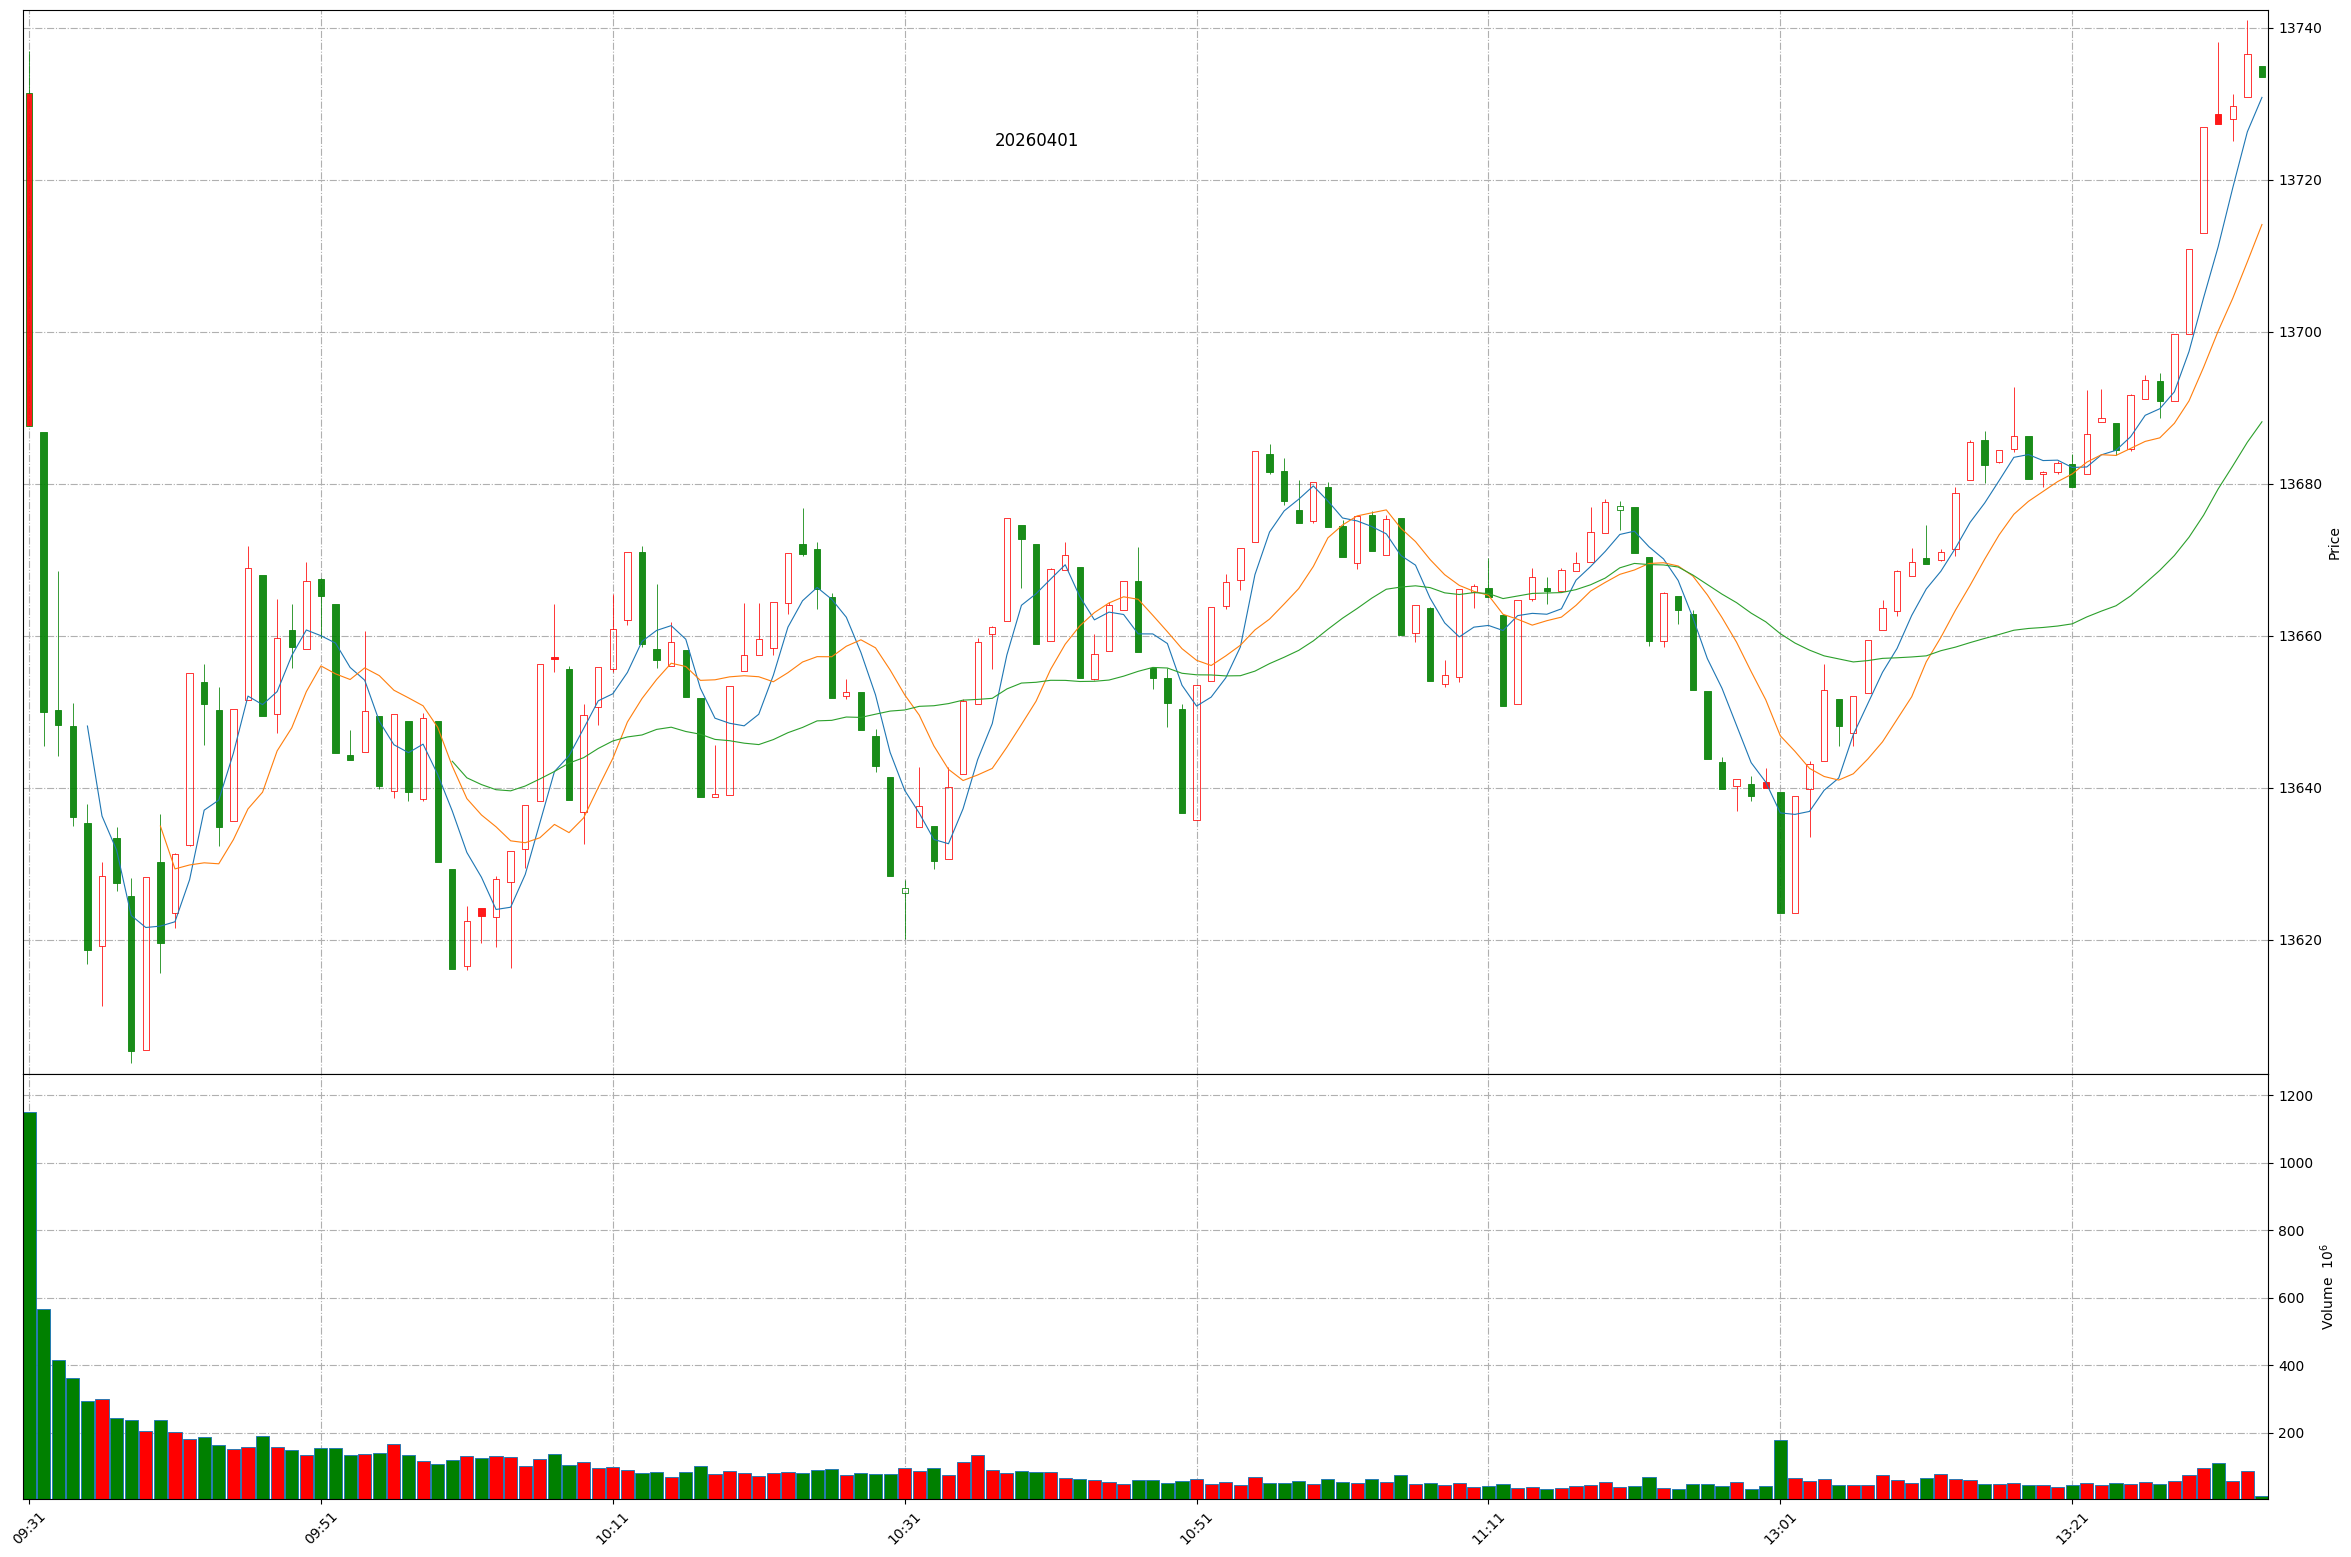
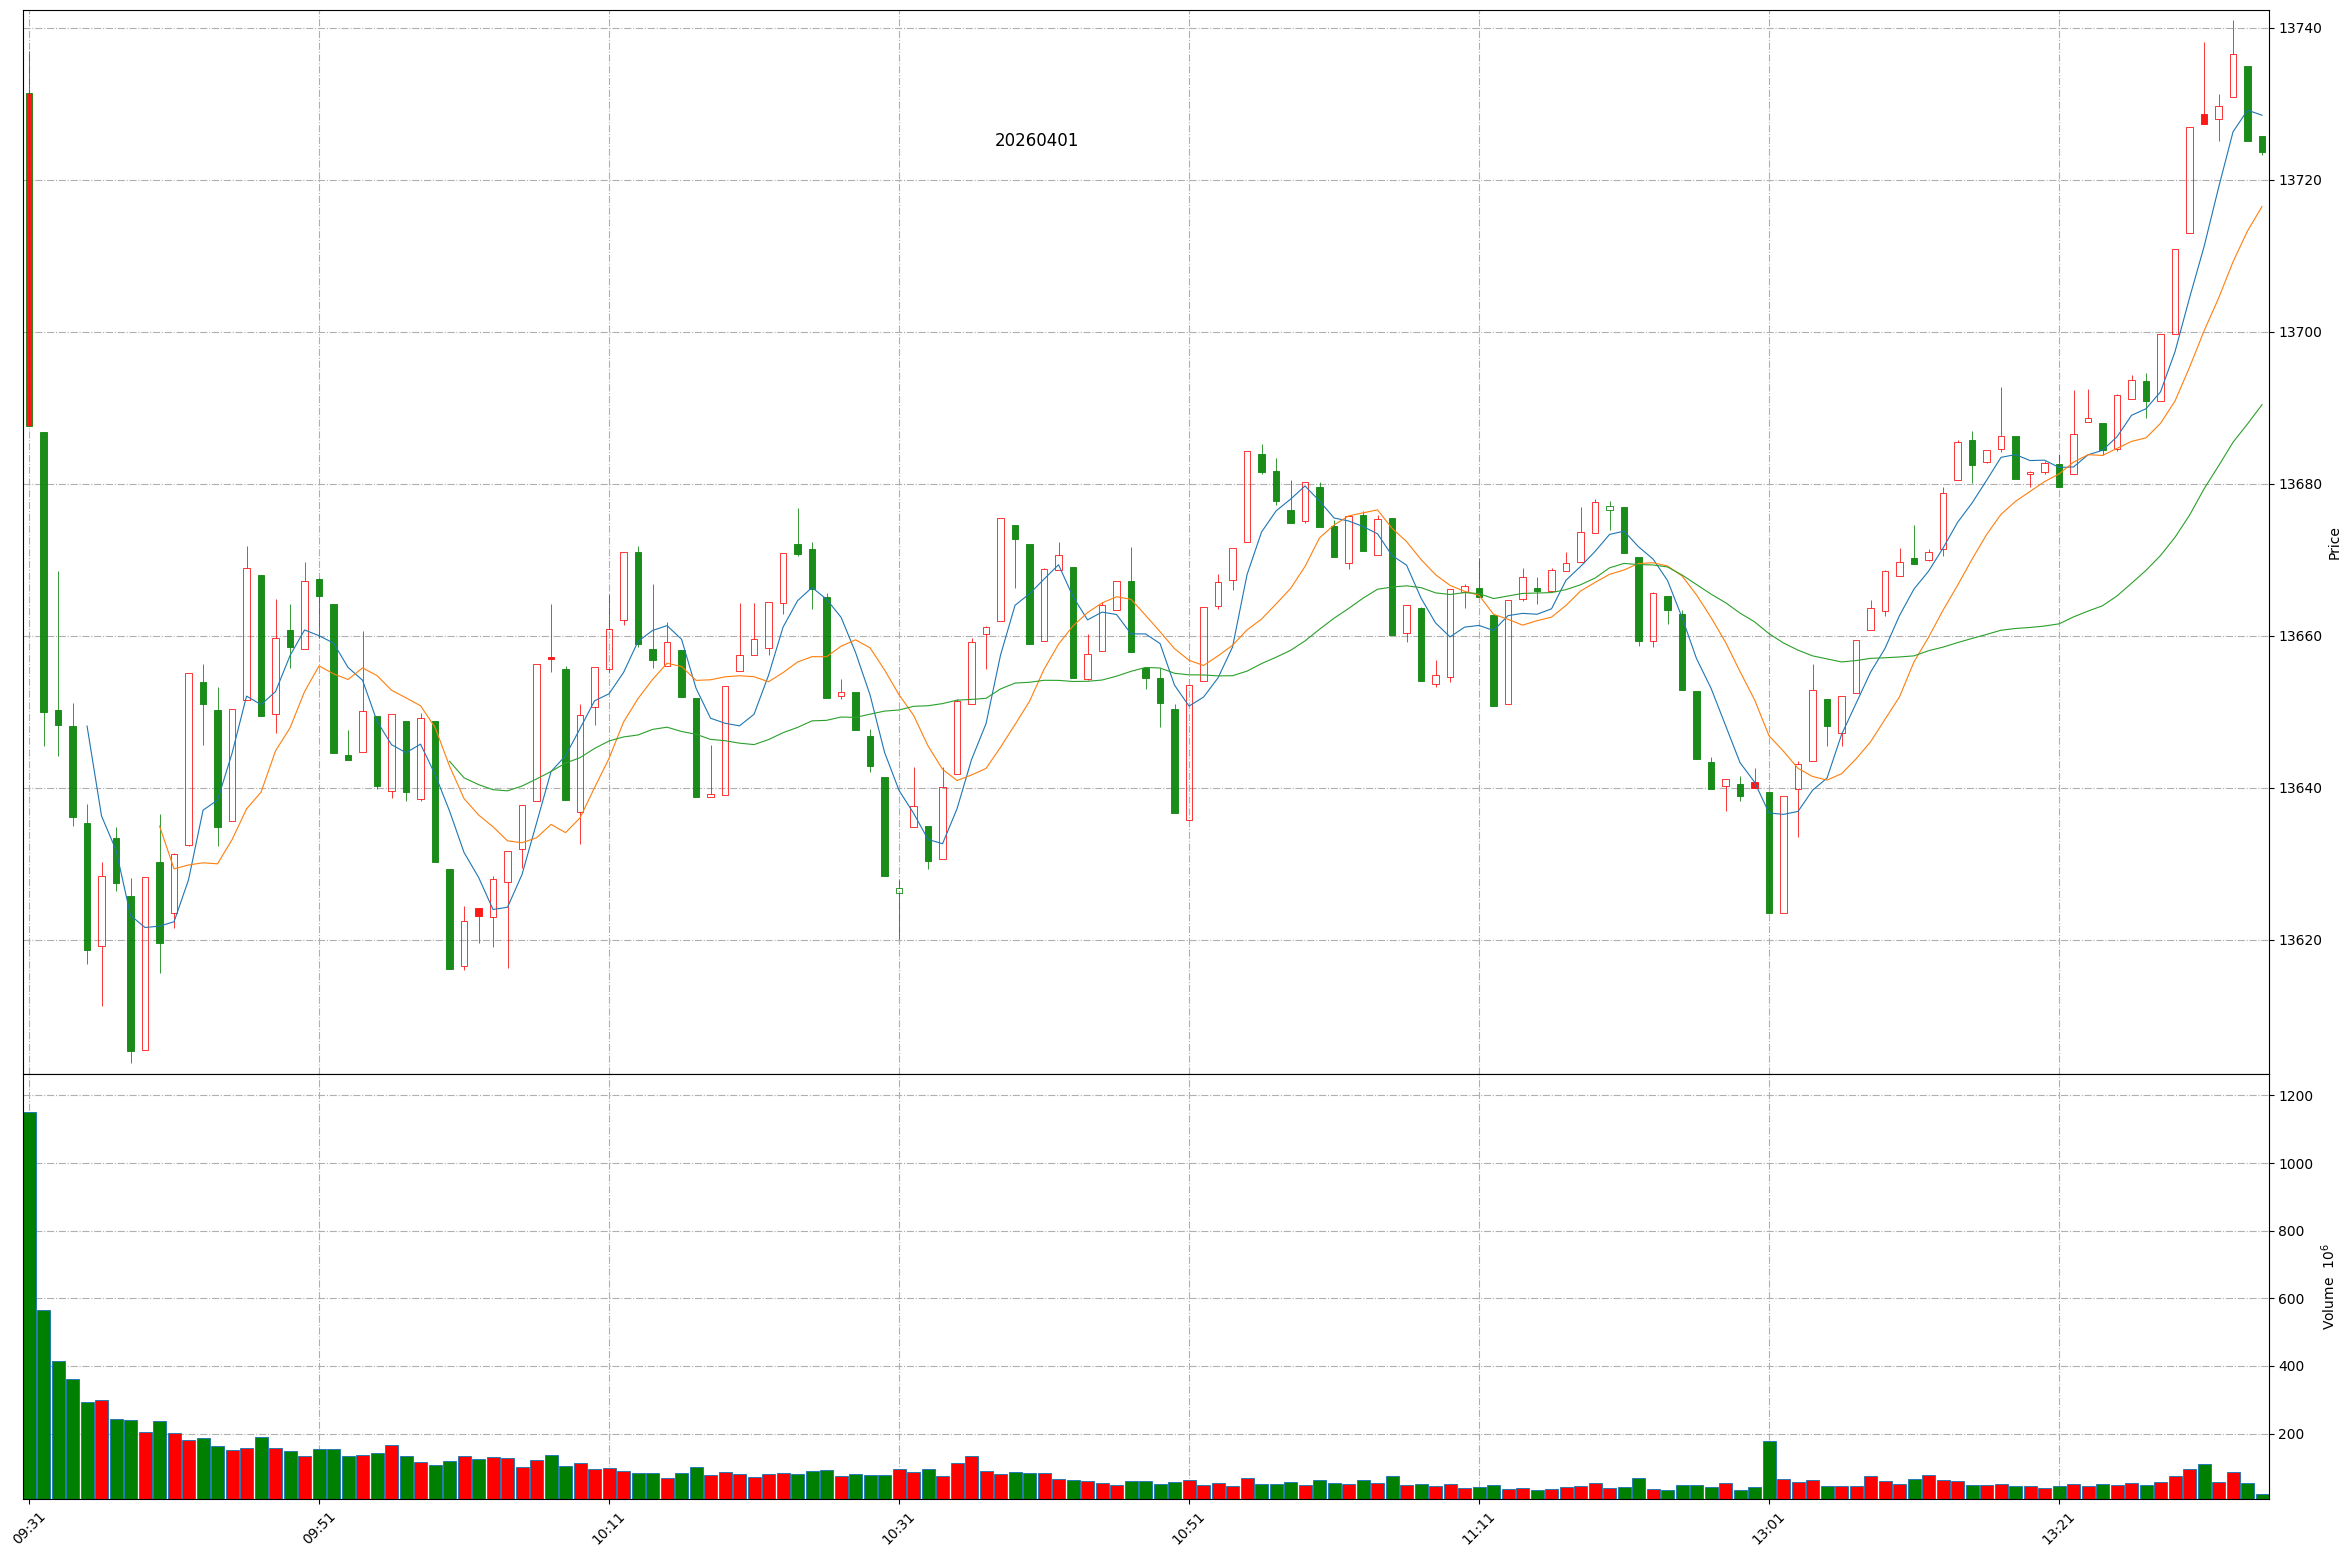
Github action update at 2026-04-01 13:34:32.

diff --git a/README.md b/README.md
@@ -1,11 +1,11 @@
 
 # Daily-A-share-market-quotes 每日 A 股指数（5min 更新）- 20260401
 
-### 上证指数 20260401 13:33
+### 上证指数 20260401 13:34
 ![](./fig/2026/4/20260401-sh000001.png)
 
-### 深证成指 20260401 13:33
+### 深证成指 20260401 13:34
 ![](./fig/2026/4/20260401-sz399001.png)
 
-### 北证50 20260401 13:33
+### 北证50 20260401 13:34
 ![](./fig/2026/4/20260401-bj899050.png)
